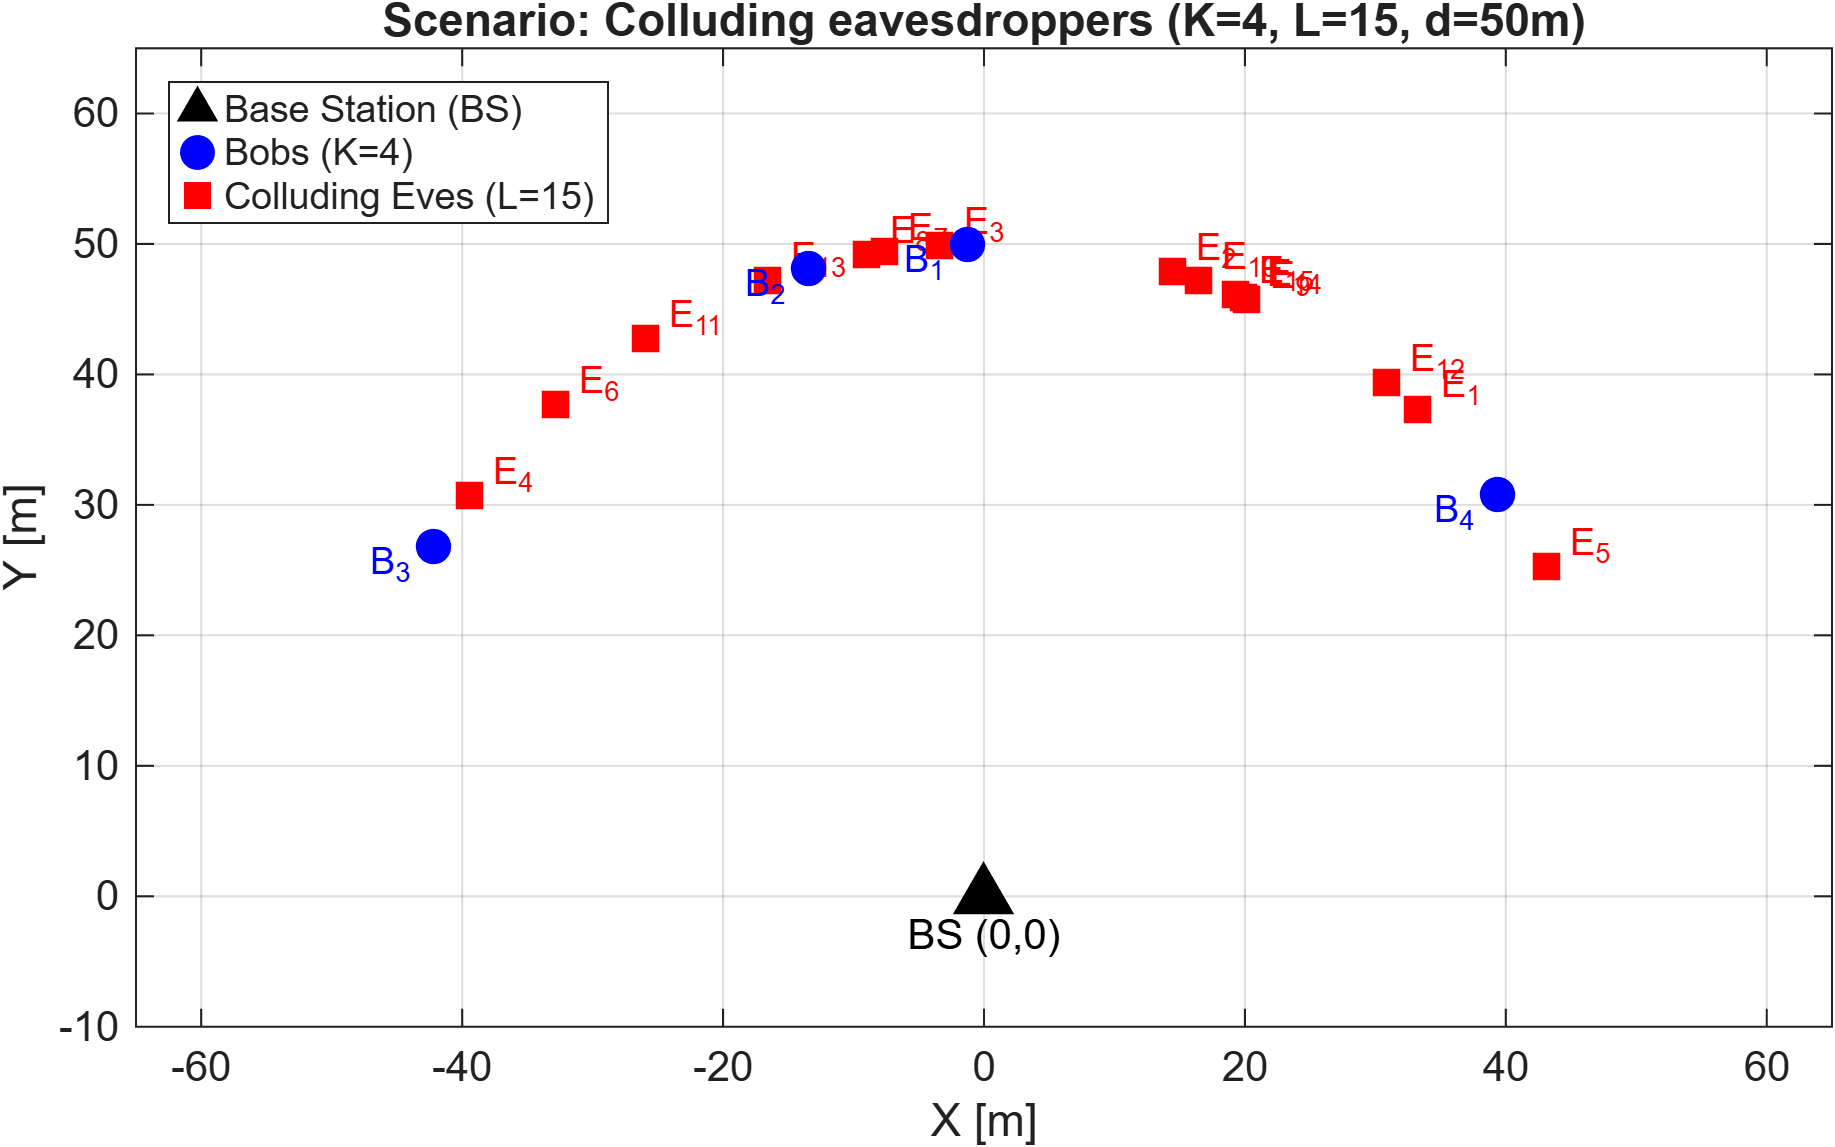
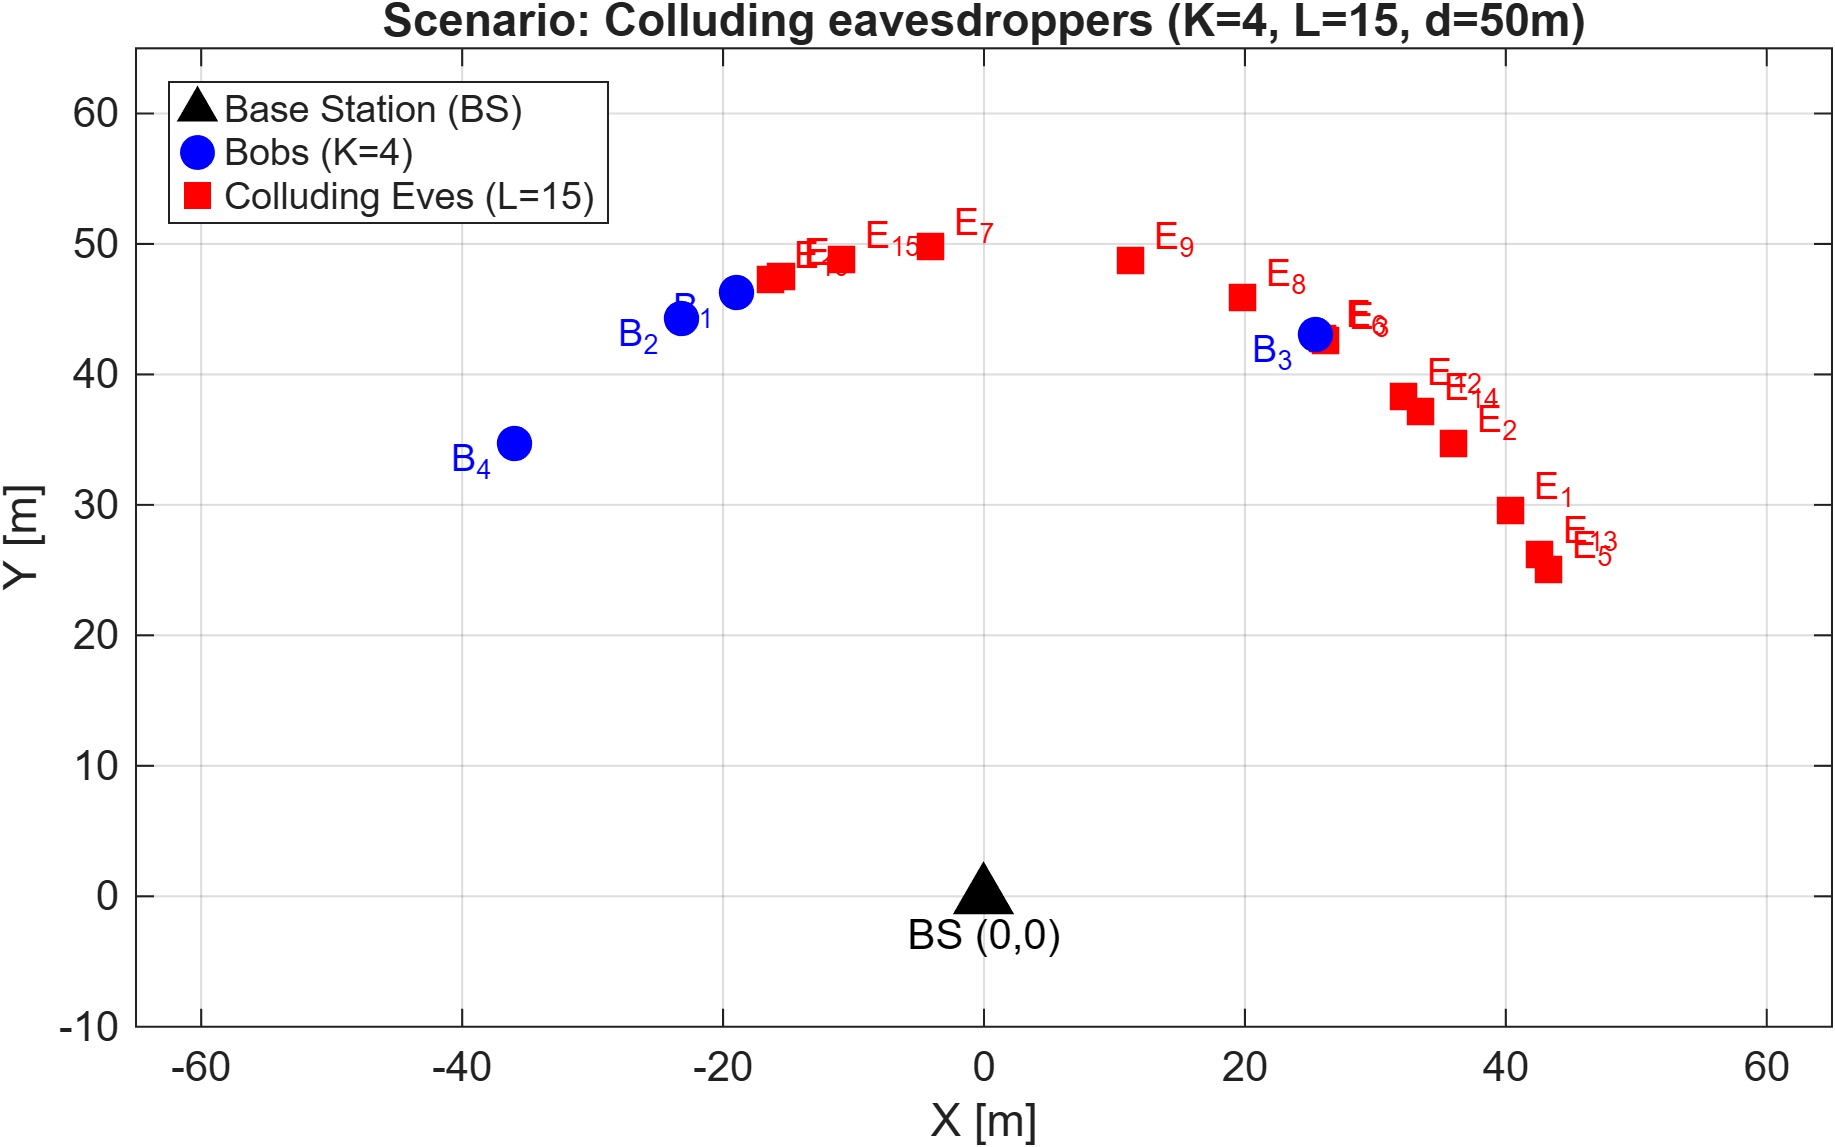
colluding eavesdroppers update

diff --git a/simulations/sim_colluding_eavesdroppers.m b/simulations/sim_colluding_eavesdroppers.m
@@ -1,9 +1,8 @@
 % =========================================================================
 % SCENARIO: Colluding eavesdroppers (6 GHz vs 28 GHz)
 % -------------------------------------------------------------------------
-% ZAWARTY FIX: Optymalizacja obiektów nrCDL, poprawny model fading'u, 
-% klarowna definicja parametru rho_tx (Transmit SNR) oraz wyliczenie 
-% rzeczywistego Received SNR u klientów.
+% ZAWARTY FIX: Podejście "Rosnącej Koalicji" (Wektorowa ocena L na tym samym
+% seedzie i kanale), optymalizacja prędkości prekodera ZF oraz 3GPP Path Loss.
 % =========================================================================
 pls_startup();
 addpath(fullfile(fileparts(mfilename('fullpath')), '..', 'utils'));
@@ -14,10 +13,10 @@ rng(p.rng_seed);
 dist      = 50;
 L_values  = 1:2:15;
 K         = 4;
-numIter   = 100;          % Zoptymalizowana pętla pozwala na więcej iteracji
-SNR_tx_dB = 100;         % Traktowane jako rho_tx = P_tx / N_0 (Transmit SNR)
+numIter   = 100;          % Dzięki wektoryzacji pętli 100 iteracji wykona się błyskawicznie
+SNR_tx_dB = 100;          % Traktowane jako rho_tx = P_tx / N_0 (Transmit SNR)
 P_tx      = 10^(SNR_tx_dB / 10);
-noise_var = 1;           % Znormalizowany szum tła
+noise_var = 1;            % Znormalizowany szum tła
 
 bands = struct( ...
     'name', {'6 GHz', '28 GHz'}, ...
@@ -26,160 +25,148 @@ bands = struct( ...
 
 results_SR   = zeros(2, length(L_values));
 results_Fair = zeros(2, length(L_values));
-Rx_SNR_dB    = zeros(2, 1); % Wektor na zapisanie średniego Received SNR
+Rx_SNR_dB    = zeros(2, 1); 
 max_L = max(L_values);
 
 for b = 1:2
     fc = bands(b).fc;
     Nt = bands(b).Nt;
     
-    % Wyliczenie wektorowe fizycznego tłumienia dla zadanej odległości
-    [PL_lin, PL_dB] = compute_fspl(dist, fc); 
+    % Wyliczenie tłumienia z modelu 3GPP NR Path Loss
+    [PL_lin, PL_dB] = compute_nr_pathloss(dist, fc); 
     
     % Wyliczenie średniego docelowego Received SNR
-    % Wzór: (P_tx * Zysk antenowy Nt) / Tłumienie trasy
     Rx_SNR_dB(b) = 10 * log10(P_tx * Nt / PL_lin);
     
     fprintf('\n--- Colluding eavesdroppers @ %s ---\n', bands(b).name);
     fprintf('  Transmit SNR (rho_tx): %d dB\n', SNR_tx_dB);
-    fprintf('  d = %g m (FSPL: %.2f dB)\n', dist, PL_dB);
+    fprintf('  d = %g m (3GPP PL: %.2f dB)\n', dist, PL_dB);
     fprintf('  Average Rx SNR: %.1f dB\n', Rx_SNR_dB(b));
     
-    % INICJALIZACJA KANAŁÓW POZA PĘTLĄ MONTE CARLO (Optymalizacja prędkości)
+    % Alokacja obiektów 3GPP przed pętlami
     cdl_b = cell(K, 1);
-    for k = 1:K
-        cdl_b{k} = create_base_cdl(Nt, fc);
-    end
+    for k = 1:K, cdl_b{k} = create_base_cdl(Nt, fc); end
     cdl_e = cell(max_L, 1);
-    for e = 1:max_L
-        cdl_e{e} = create_base_cdl(Nt, fc);
-    end
+    for e = 1:max_L, cdl_e{e} = create_base_cdl(Nt, fc); end
     
-    for l_idx = 1:length(L_values)
-        num_eve = L_values(l_idx);
-        SR_acc = 0;
-        F_acc  = 0;
+    % Akumulatory dla całego sweepu w danej częstotliwości
+    SR_sweep_acc = zeros(1, length(L_values));
+    F_sweep_acc  = zeros(1, length(L_values));
+    
+    % PĘTLA GŁÓWNA MONTE CARLO (Generowanie "świata" raz na iterację)
+    for it = 1:numIter
+        iter_seed = randi([0 2^31 - 1]);
         
-        for it = 1:numIter
-            % Losowanie topologii w sektorze 120 stopni dla każdej iteracji
-            theta_bobs = -60 + 120 * rand(1, K);
-            theta_eves = -60 + 120 * rand(1, num_eve);
-            H_eff = zeros(Nt, K);
-            iter_seed = randi([0 2^31 - 1]);
-            
-            % --- KANAŁY BOBÓW ---
-            for k = 1:K
-                release(cdl_b{k}); % Zwalniamy obiekt przed modyfikacją
-                cdl_b{k}.TransmitArrayOrientation = [-theta_bobs(k); 0; 0];
-                cdl_b{k}.Seed = iter_seed;
-                [pg_b, ~] = cdl_b{k}();
-                
-                hb = squeeze(sum(pg_b, 2)); hb = hb(:);
-                % Aplikacja tłumienia z zachowaniem naturalnej wariancji
-                H_eff(:, k) = sqrt(1 / PL_lin) * hb; 
+        % Geometria sektora
+        theta_bobs = -60 + 120 * rand(1, K);
+        theta_eves_max = -60 + 120 * rand(1, max_L); % Losujemy pozycje od razu dla max_L Ew
+        
+        % --- 1. KANAŁY LEGALNE (BOBOWIE) ---
+        H_eff = zeros(Nt, K);
+        for k = 1:K
+            release(cdl_b{k});
+            cdl_b{k}.TransmitArrayOrientation = [-theta_bobs(k); 0; 0];
+            cdl_b{k}.Seed = iter_seed;
+            [pg_b, ~] = cdl_b{k}();
+            hb = squeeze(sum(pg_b, 2)); hb = hb(:);
+            H_eff(:, k) = sqrt(1 / PL_lin) * hb; 
+        end
+        
+        % --- 2. KANAŁY PODSŁUCHIWACZY (MAKSYMALNA KOALICJA EW) ---
+        G_eff_max = zeros(Nt, max_L);
+        for e = 1:max_L
+            release(cdl_e{e});
+            cdl_e{e}.TransmitArrayOrientation = [-theta_eves_max(e); 0; 0];
+            cdl_e{e}.Seed = iter_seed;
+            [pg_e, ~] = cdl_e{e}();
+            he = squeeze(sum(pg_e, 2)); he = he(:);
+            G_eff_max(:, e) = sqrt(1 / PL_lin) * he;
+        end
+        
+        % --- 3. PREKODOWANIE ZF (Wyliczane RAZ na całą iterację!) ---
+        W_raw = H_eff * pinv(H_eff' * H_eff + 1e-9 * eye(K));
+        W = W_raw / norm(W_raw, 'fro'); 
+        
+        % --- 4. PRZEPUSTOWOŚĆ BOBÓW (Stała niezależnie od liczby Ew) ---
+        R_b = zeros(K, 1);
+        S_b_base = zeros(K, 1);
+        I_b_base = zeros(K, 1);
+        for k = 1:K
+            S_b_base(k) = P_tx * abs(H_eff(:, k)' * W(:, k))^2;
+            for j = 1:K
+                if j ~= k, I_b_base(k) = I_b_base(k) + P_tx * abs(H_eff(:, k)' * W(:, j))^2; end
             end
+            R_b(k) = log2(1 + S_b_base(k) / (I_b_base(k) + noise_var));
+        end
+        
+        % --- 5. PĘTLA WEWNĘTRZNA: Testowanie rozmiaru koalicji Ew (L) ---
+        for l_idx = 1:length(L_values)
+            num_eve = L_values(l_idx);
             
-            % --- KANAŁY ZMOWY EW ---
-            G_eff = zeros(Nt, num_eve);
-            for e = 1:num_eve
-                release(cdl_e{e});
-                cdl_e{e}.TransmitArrayOrientation = [-theta_eves(e); 0; 0];
-                cdl_e{e}.Seed = iter_seed;
-                [pg_e, ~] = cdl_e{e}();
-                
-                he = squeeze(sum(pg_e, 2)); he = he(:);
-                G_eff(:, e) = sqrt(1 / PL_lin) * he;
-            end
-            
-            % --- ZERO-FORCING (Z DROBNĄ REGULARYZACJĄ NUMERYCZNĄ) ---
-            W_raw = H_eff * pinv(H_eff' * H_eff + 1e-9 * eye(K));
-            W = W_raw / norm(W_raw, 'fro'); % Normalizacja macierzowa całej mocy
-            
+            % ROSNĄCA KOALICJA: Wycinamy podmacierz kanałów dla aktualnego L
+            G_eff = G_eff_max(:, 1:num_eve);
             R_inv = eye(num_eve);
-            R_b = zeros(K, 1);
             R_e = zeros(K, 1);
             
-            % --- EWALUACJA POJEMNOŚCI ---
             for k = 1:K
-                % Pojemność Boba
-                sig_b = P_tx * abs(H_eff(:, k)' * W(:, k))^2;
-                intf_b = 0; 
-                for j = 1:K
-                    if j ~= k
-                        intf_b = intf_b + P_tx * abs(H_eff(:, k)' * W(:, j))^2;
-                    end
-                end
-                R_b(k) = log2(1 + sig_b / (intf_b + noise_var));
-                
-                % Pojemność koalicji Ew (Maximum Ratio Combining)
+                % Wyliczenie kooperatywnego odbioru MRC dla aktualnej liczby Ew
                 h_ek = sqrt(P_tx) * G_eff' * W(:, k);
                 R_e(k) = log2(1 + real(h_ek' * R_inv * h_ek));
             end
             
-            % Obliczenie metryk PLS
+            % Obliczenie metryk PLS dla danego L na zamrożonym kanale
             R_s = max(0, R_b - R_e);
             rs_sum = sum(R_s);
-            SR_acc = SR_acc + rs_sum;
             
-            % Obliczenie sprawiedliwości z zabezpieczeniem przed dzieleniem przez zero
+            SR_sweep_acc(l_idx) = SR_sweep_acc(l_idx) + rs_sum;
             if sum(R_s.^2) > 0
-                F_acc = F_acc + (rs_sum^2) / (K * sum(R_s.^2));
+                F_sweep_acc(l_idx) = F_sweep_acc(l_idx) + (rs_sum^2) / (K * sum(R_s.^2));
             end
         end
-        results_SR(b, l_idx)   = SR_acc / numIter;
-        results_Fair(b, l_idx) = F_acc / numIter;
     end
+    
+    % Zapisanie uśrednionych wyników całej krzywej sweepu
+    results_SR(b, :)   = SR_sweep_acc / numIter;
+    results_Fair(b, :) = F_sweep_acc / numIter;
 end
 
 % =========================================================================
 % --- WIZUALIZACJA WYNIKÓW ---
 % =========================================================================
-% Dynamiczne etykiety legendy prezentujące pasmo, Nt i wynikowy Rx SNR
 legend_6GHz  = sprintf('6 GHz (N_t = %d, Rx SNR \\approx %.1f dB)', bands(1).Nt, Rx_SNR_dB(1));
 legend_28GHz = sprintf('28 GHz (N_t = %d, Rx SNR \\approx %.1f dB)', bands(2).Nt, Rx_SNR_dB(2));
 
 fig = figure('Color', 'w', 'Position', [100 100 1100 450]);
 
-% 1. Wykres Secrecy Sum-Rate
 subplot(1, 2, 1);
 plot(L_values, results_SR(1, :), '-bo', 'LineWidth', 2, 'MarkerFaceColor', 'b'); hold on;
 plot(L_values, results_SR(2, :), '-rs', 'LineWidth', 2, 'MarkerFaceColor', 'r');
 grid on; box on;
+xlim([min(L_values) max(L_values)]); % Usunięcie przerw po bokach
 xlabel('Number of colluding eavesdroppers (L)'); ylabel('Secrecy Sum-Rate (bits/s/Hz)');
 title('Secrecy vs coalition size');
 legend(legend_6GHz, legend_28GHz, 'Location', 'NorthEast');
 
-% 2. Wykres Fairness
 subplot(1, 2, 2);
 plot(L_values, results_Fair(1, :), '-bo', 'LineWidth', 2, 'MarkerFaceColor', 'b'); hold on;
 plot(L_values, results_Fair(2, :), '-rs', 'LineWidth', 2, 'MarkerFaceColor', 'r');
 grid on; box on; ylim([0 1.05]);
+xlim([min(L_values) max(L_values)]); % Usunięcie przerw po bokach
 xlabel('Number of colluding eavesdroppers (L)'); ylabel("Jain's fairness index");
 title('Fairness of per-user secrecy');
 legend(legend_6GHz, legend_28GHz, 'Location', 'SouthWest');
 
-% Tytuł główny dla całej figury
-% Tytuł główny dla całej figury
 sgtitle('Scenario 3: Colluding Eavesdroppers Trade-off');
-
-
 try save_figure(fig, 'fig_colluding_eavesdroppers'); catch; end
 plot_colluding_topology(dist, K, max_L);
 
 % =========================================================================
-% FUNKCJA POMOCNICZA: BAZOWY KANAŁ CDL
+% FUNKCJE POMOCNICZE
 % =========================================================================
 function cdl = create_base_cdl(Nt, fc)
     cdl = nrCDLChannel;
     cdl.DelayProfile = 'CDL-A';
-    
-    % Zróżnicowanie Delay Spread dla sub-6 GHz i mmWave
-    if fc < 10e9
-        cdl.DelaySpread = 30e-9;
-    else
-        cdl.DelaySpread = 10e-9;
-    end
-    
+    if fc < 10e9, cdl.DelaySpread = 30e-9; else, cdl.DelaySpread = 10e-9; end
     cdl.CarrierFrequency = fc;
     cdl.MaximumDopplerShift = 0;
     cdl.TransmitAntennaArray.Size = [1 Nt 1 1 1];
@@ -189,9 +176,6 @@ function cdl = create_base_cdl(Nt, fc)
     cdl.ChannelFiltering = false;
 end
 
-% =========================================================================
-% FUNKCJA POMOCNICZA: TOPOLOGIA
-% =========================================================================
 function plot_colluding_topology(dist, K, L)
     fig_top = figure('Color', 'w', 'Position', [150 150 700 700]);
     hold on; grid on; box on;
